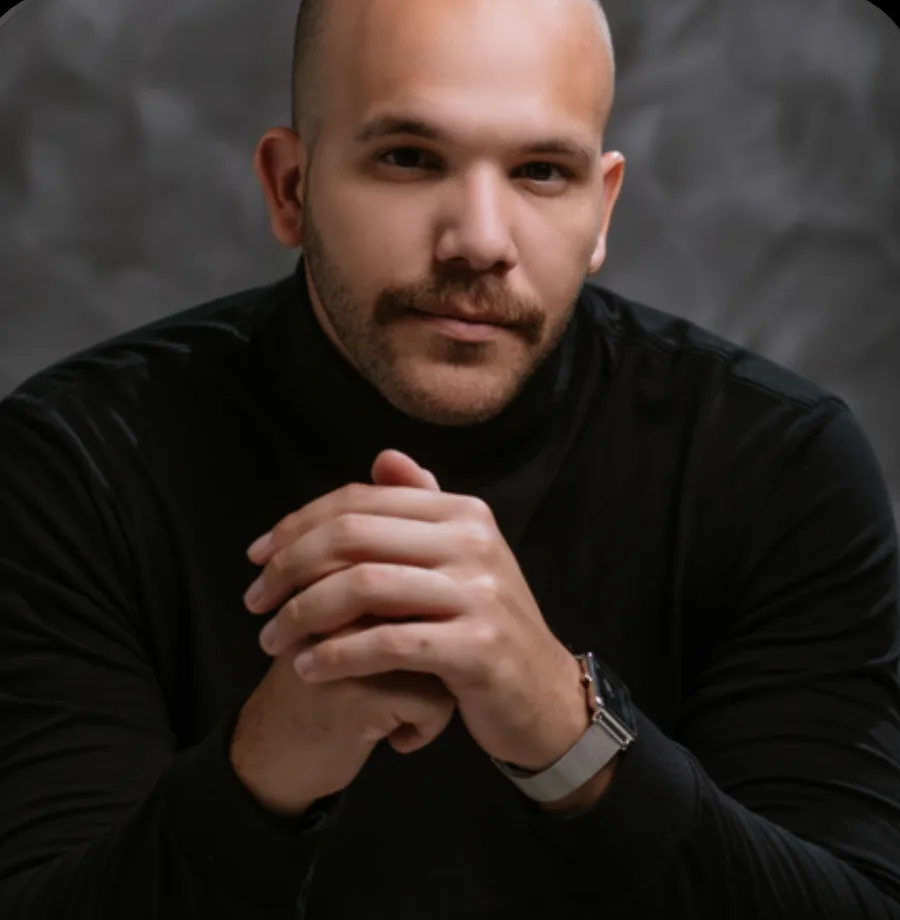
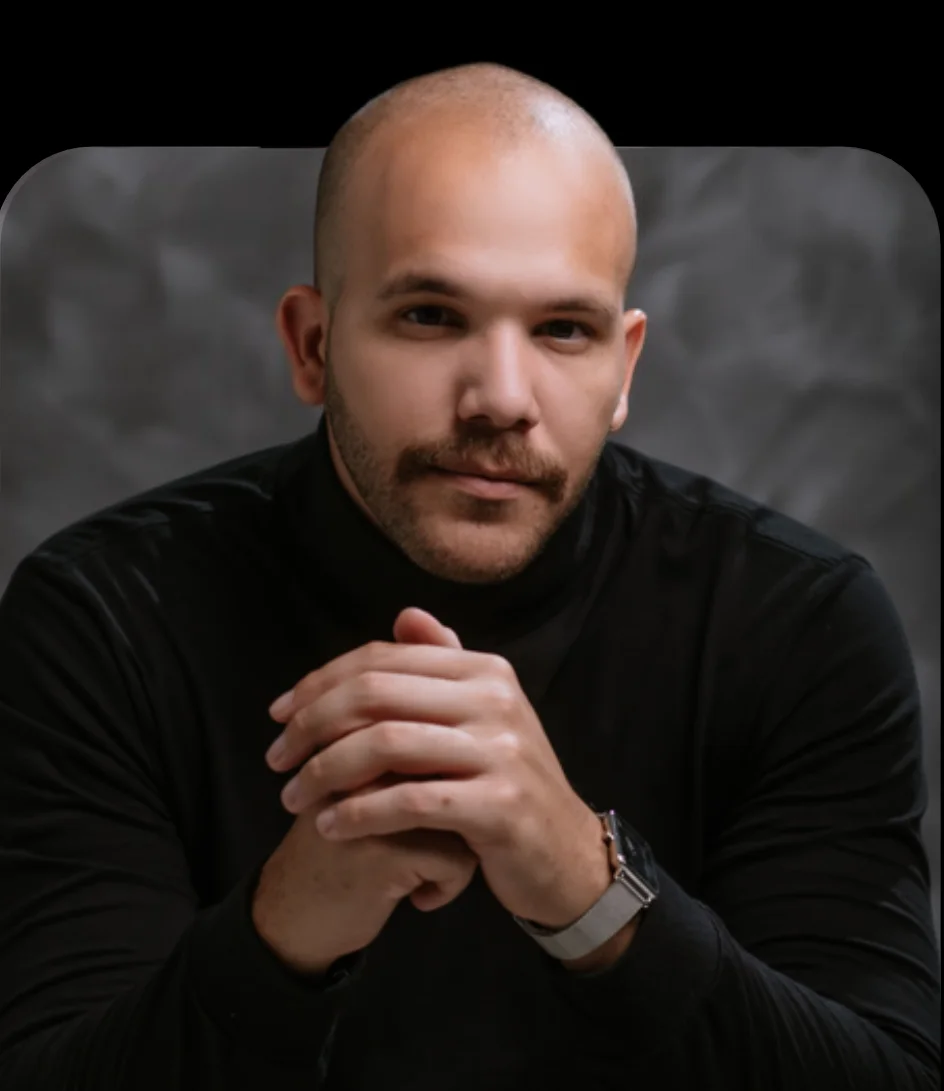
Equipe: cabeças inteiras e descrição só no mouse/toque; Instagram de volta ao formato antigo com posts do STATUS BRAND
Claude-Session: https://claude.ai/code/session_01MUtSi82y3N4GEqsMz7ecg2

diff --git a/index.html b/index.html
@@ -300,19 +300,16 @@
 </section>
 <section class="section ig" id="instagram" aria-labelledby="ig-title"><div class="section-kicker"><span>INSTAGRAM</span><span>BASTIDORES E ENTREGAS</span></div>
   <h2 class="ig-title reveal" id="ig-title">Um ambiente criado para <em>inspirar, conectar</em> e fazer marcas crescerem.</h2>
-  <div class="ig-grid ig-mosaico reveal">
+  <div class="ig-grid reveal">
     <!-- LINK: quando tiver o @, trocar a div por <a class="ig-card" href="https://www.instagram.com/..." target="_blank" rel="noopener noreferrer"> -->
     <div class="ig-card">
       <span class="ig-pill" aria-hidden="true"><i></i><b>→</b></span>
       <p>Bastidores, entregas e o dia a dia da Status: acompanhe de perto no nosso Instagram.</p>
     </div>
-    <figure class="ig-foto"><img src="assets/img/portfolio/redes-5.webp" alt="Post: Sua marca percebida à altura do que entrega?" width="720" height="900" loading="lazy"></figure>
-    <figure class="ig-foto"><img src="assets/img/portfolio/identidade-3.webp" alt="Mão segurando o símbolo S da Status" width="720" height="900" loading="lazy"></figure>
-    <figure class="ig-foto"><img src="assets/img/portfolio/redes-2.webp" alt="Post: Status Media, tecnologia para a sua operação" width="720" height="900" loading="lazy"></figure>
-    <figure class="ig-foto"><img src="assets/img/portfolio/redes-7.webp" alt="Post: Três frentes conectadas ao próximo passo do seu negócio" width="720" height="900" loading="lazy"></figure>
-    <figure class="ig-foto"><img src="assets/img/portfolio/identidade-1.webp" alt="Logo Status Brand aplicado em peça preta" width="720" height="900" loading="lazy"></figure>
-    <figure class="ig-foto"><img src="assets/img/portfolio/redes-4.webp" alt="Post: Status Academy, educação" width="720" height="900" loading="lazy"></figure>
-    <figure class="ig-foto"><img src="assets/img/portfolio/identidade-2.webp" alt="Símbolo S da Status em 3D" width="720" height="900" loading="lazy"></figure>
+    <div class="ig-ph ig-a ig-com-foto"><img src="assets/img/portfolio/redes-7.webp" alt="Post: Três frentes conectadas ao próximo passo do seu negócio" width="720" height="900" loading="lazy"></div>
+    <div class="ig-ph ig-b ig-com-foto"><img src="assets/img/portfolio/identidade-3.webp" alt="Mão segurando o símbolo S da Status" width="720" height="900" loading="lazy"></div>
+    <div class="ig-ph ig-c ig-com-foto"><img src="assets/img/portfolio/identidade-1.webp" alt="Logo Status Brand aplicado em peça preta" width="720" height="900" loading="lazy"></div>
+    <div class="ig-ph ig-d ig-com-foto"><img src="assets/img/portfolio/identidade-2.webp" alt="Símbolo S da Status em 3D" width="720" height="900" loading="lazy"></div>
   </div>
 </section>
 
@@ -321,7 +318,7 @@
   <div class="section-kicker"><span>EQUIPE</span><span>QUEM FAZ ACONTECER</span></div>
   <div class="eq-head">
     <h2 id="eq-title" class="reveal">Pessoas por trás <em>do status.</em></h2>
-    <p>Passe o mouse em cada foto para conhecer quem está à frente da Status.</p>
+    <p>Passe o mouse ou toque em cada foto para conhecer quem está à frente da Status.</p>
   </div>
   <ul class="eq-grid">
     <li class="eq-card" tabindex="0">

diff --git a/novas.css b/novas.css
@@ -1224,3 +1224,22 @@ main>section:not(.hx) h2,main>.light-zone>section h2,.ecl-title,.eco3-title,.lig
 .eq-chip{background:rgba(7,5,12,.55)}
 @media(max-width:800px){.ig-mosaico>.ig-card{grid-column:1/-1;aspect-ratio:auto;min-height:170px;transform:none!important}.ig-mosaico>.ig-foto:nth-child(2n+1){transform:translateY(30px)}.ig-mosaico>.ig-foto:nth-child(2n){transform:none}}
 @media(max-width:900px){.dg-side{padding-bottom:360px}.dg-side .ph-deco{height:340px}}
+
+/* 22/11: Instagram de volta ao formato antigo, agora com os posts do STATUS BRAND preenchendo cada espaço */
+.ig-ph.ig-com-foto{display:block;background:#0c0818}
+.ig-ph.ig-com-foto img{width:100%;height:100%;object-fit:cover;opacity:1;filter:none;transition:transform .8s cubic-bezier(.16,1,.3,1)}
+.ig-ph.ig-com-foto:hover img{transform:scale(1.04)}
+.ig-c.ig-com-foto img{object-position:50% 55%}
+
+/* 22/11: Equipe. Cabeças inteiras (saindo do quadro, como no Canva) e só nome + função à vista; descrição no mouse ou no toque */
+.eq-card{background:#000;cursor:pointer}
+.eq-foto>img{object-position:50% 0}
+@media(hover:none){
+  .eq-info p,.eq-info .eq-at{max-height:0;margin:0;opacity:0;transform:translateY(10px)}
+  .eq-card::after{background:linear-gradient(180deg,transparent 45%,rgba(7,5,12,.95))}
+}
+.eq-card.is-aberto::after{background:linear-gradient(180deg,rgba(7,5,12,.15) 10%,rgba(18,10,40,.97) 62%)}
+.eq-card.is-aberto .eq-info p{max-height:160px;margin-top:10px;opacity:1;transform:none}
+.eq-card.is-aberto .eq-info .eq-at{max-height:30px;margin-top:6px;opacity:1;transform:none}
+.eq-card.is-aberto .eq-arw{transform:rotate(45deg)}
+.ig-a.ig-com-foto img{object-position:50% 88%}

diff --git a/novas.js b/novas.js
@@ -602,3 +602,14 @@ document.addEventListener('click', e => {
     }
   });
 })();
+
+// 22/11: Equipe, no celular/tablet a descrição abre com um toque no card (no computador abre ao passar o mouse)
+(() => {
+  'use strict';
+  const cards = [...document.querySelectorAll('.eq-card')];
+  const alterna = c => { const abrir = !c.classList.contains('is-aberto'); cards.forEach(x => x.classList.remove('is-aberto')); c.classList.toggle('is-aberto', abrir); };
+  cards.forEach(c => {
+    c.addEventListener('click', () => { if (matchMedia('(hover: none)').matches) alterna(c); });
+    c.addEventListener('keydown', e => { if (e.key === 'Enter' || e.key === ' ') { e.preventDefault(); alterna(c); } });
+  });
+})();
